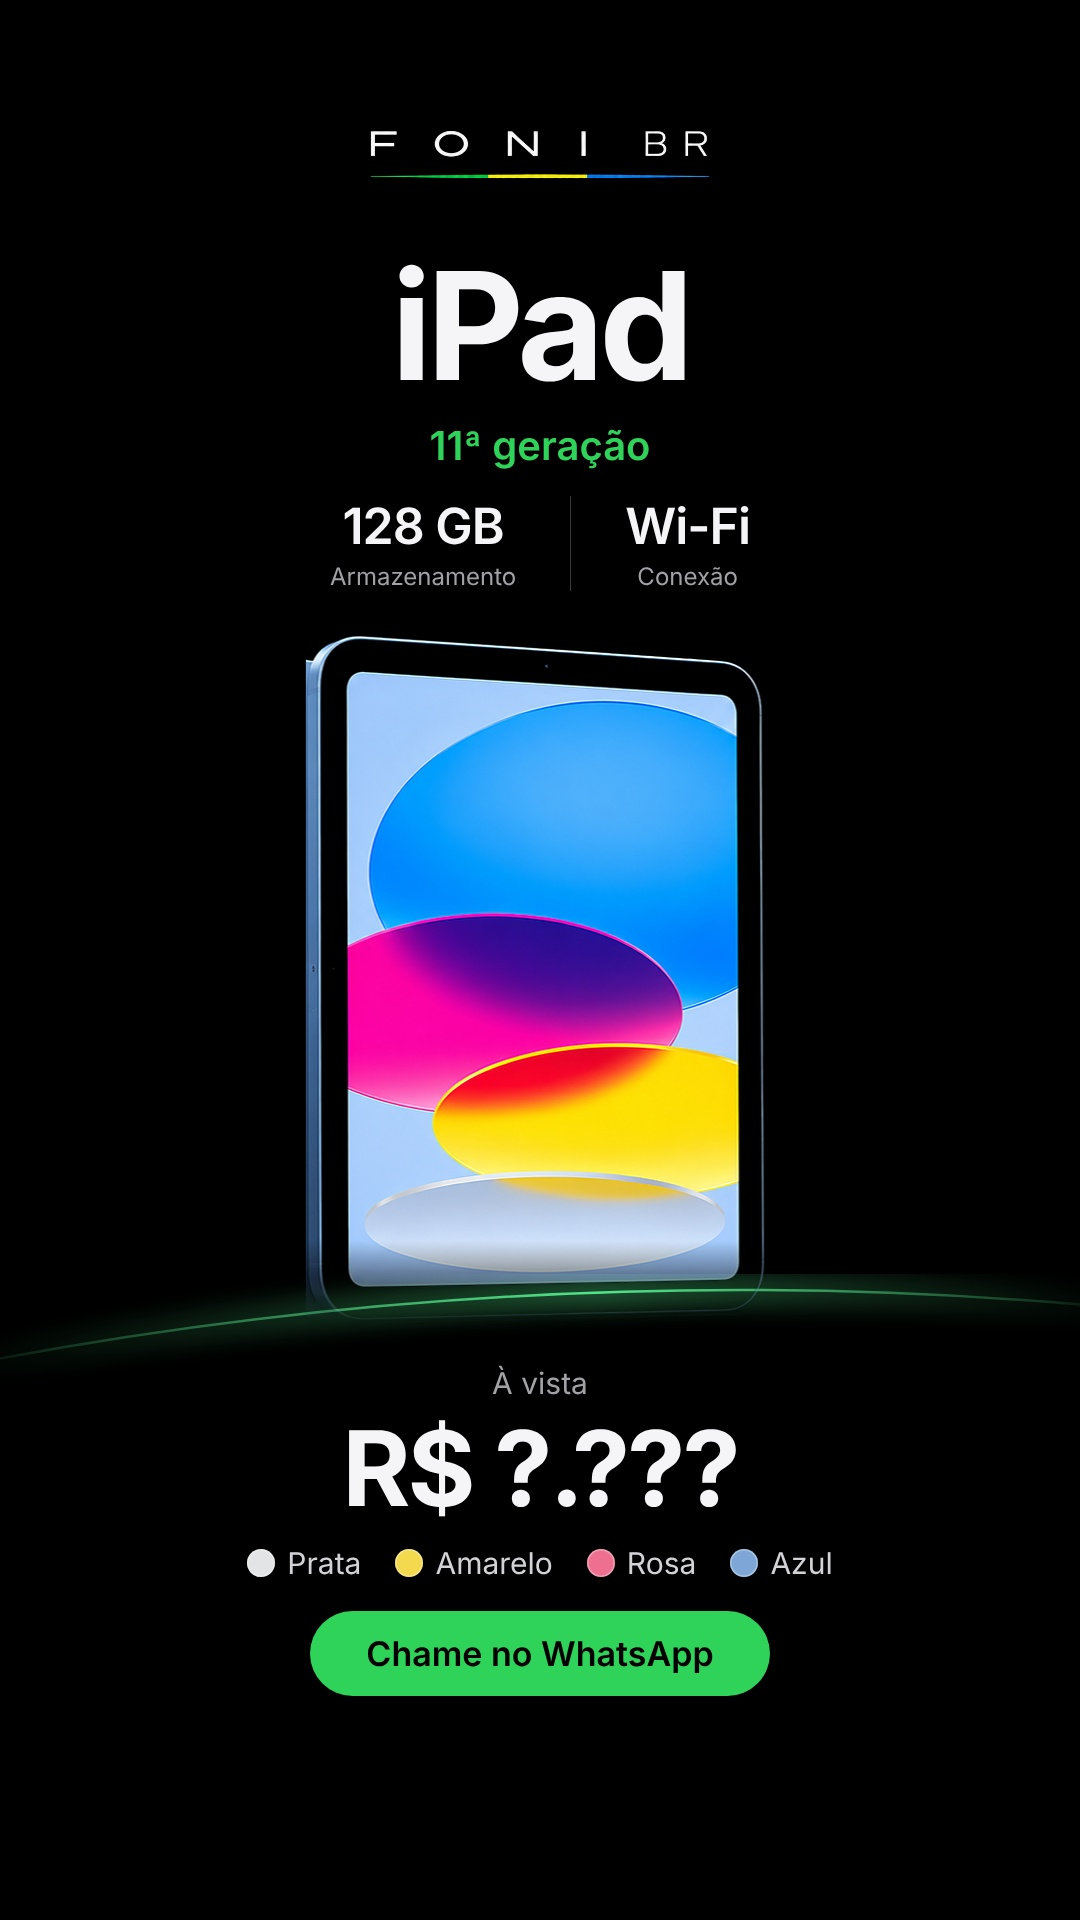
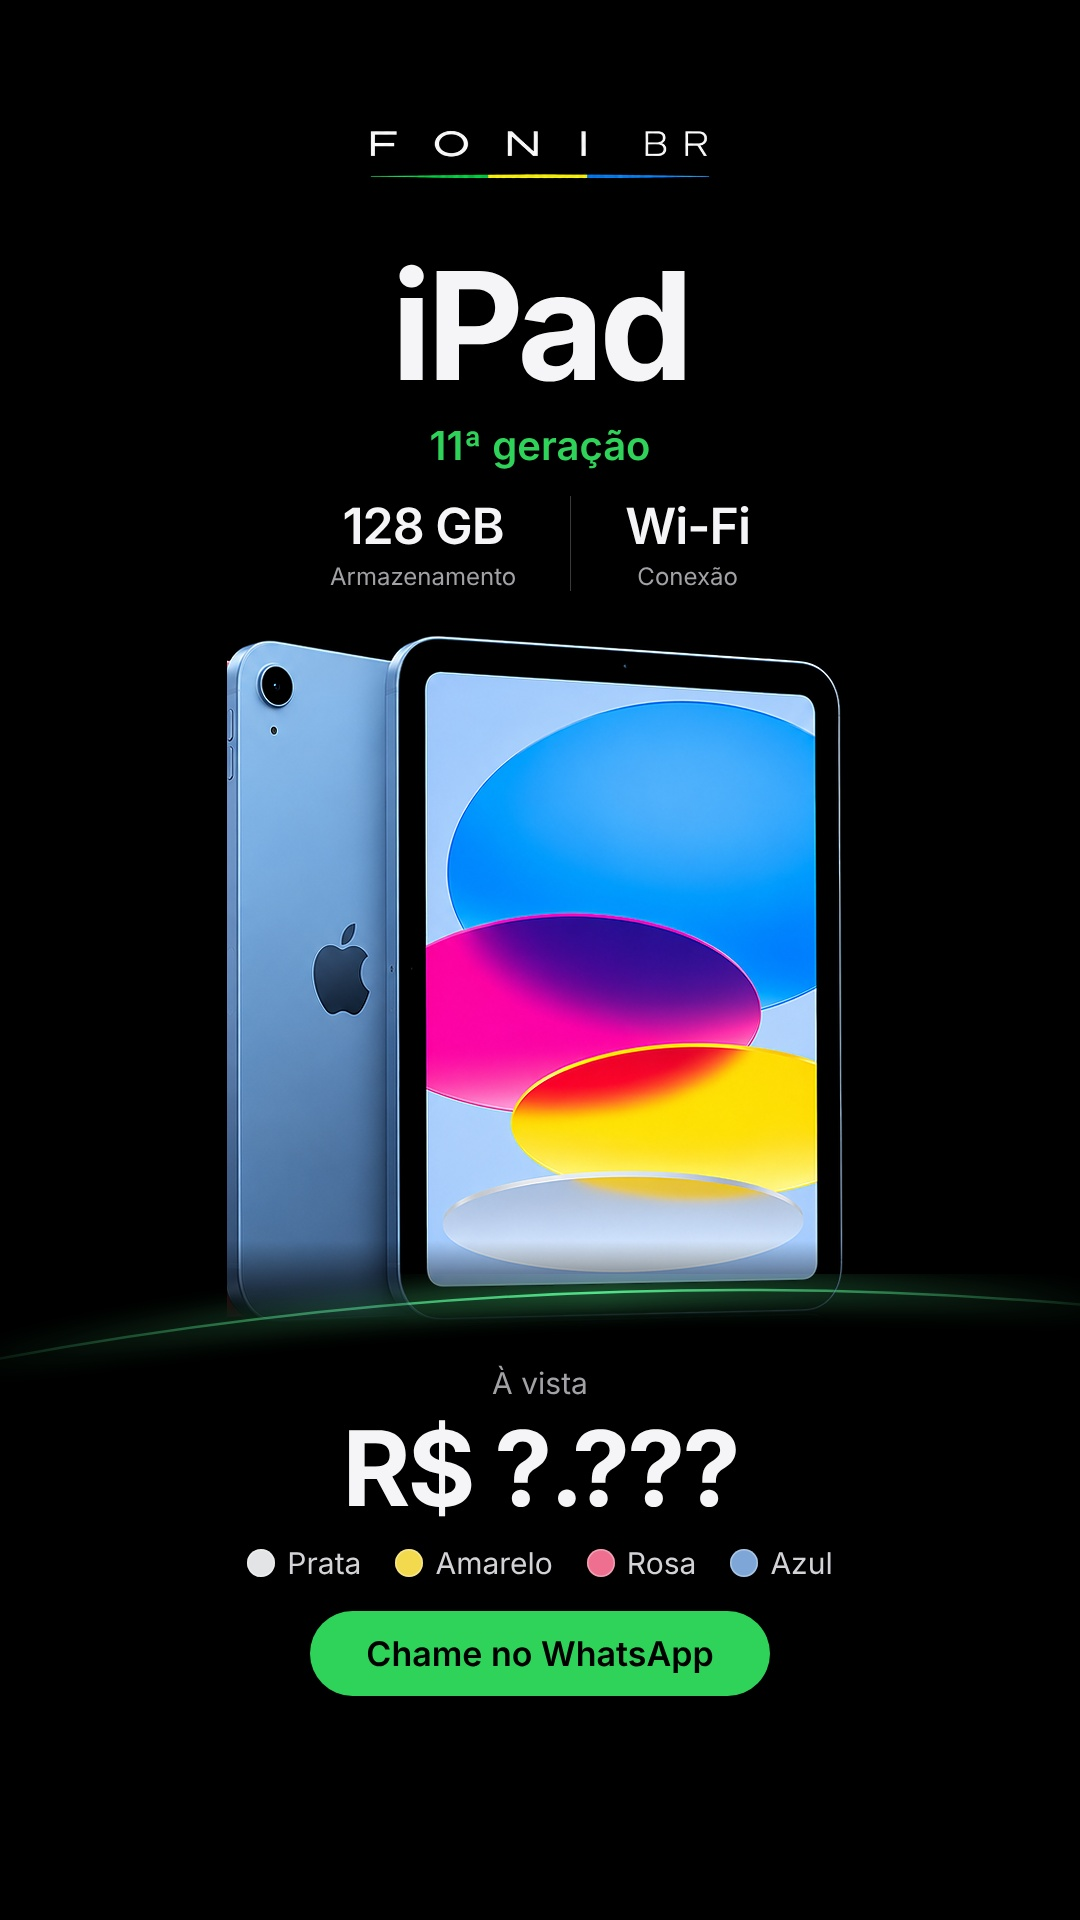
iPads: anúncio com traseira + frente, como nos iPhones
Claude-Session: https://claude.ai/code/session_019vjRdqEKRKmJkiD9USJGwJ

Changed region(s): [[0.1833, 0.3125, 0.7639, 0.6875]]

diff --git a/ferramentas/anuncio_produto/fichas.py b/ferramentas/anuncio_produto/fichas.py
@@ -52,10 +52,10 @@ FICHAS = {
                              foto="macbook-air-m5-15/macbookair_m5_15_prata.png"),
     "ipadpro_m5_11": dict(modelo="iPad Pro M5", cond="11 polegadas", specs="M5:Chip|256 GB:Armazenamento|Wi-Fi:Conexão",
                           preco=PENDENTE, cores="Preto-espacial:#2b2b2e ou Prata", garantia="", tamanho="pro", limiar=52,
-                          foto="ipad-pro-m5-11/ipadpro_m5_11_frente.png"),
+                          foto="ipad-pro-m5-11/ipadpro_m5_11_prata_frente.png"),
     "ipad11": dict(modelo="iPad", cond="11ª geração", specs="128 GB:Armazenamento|Wi-Fi:Conexão",
                    preco=PENDENTE, cores="Prata, Amarelo:#f3d94e, Rosa:#ee6f8f ou Azul:#7ea7d8", garantia="", tamanho="pro",
-                   limiar=52, foto="ipad-11/ipad11_frente_azul.png"),
+                   limiar=52, foto="ipad-11/ipad11_azul_frente.png"),
     "watchultra4": dict(modelo="Apple Watch Ultra 4", cond="GPS + Cellular", specs="49 mm:Caixa|Titânio:Material",
                         preco=PENDENTE, cores="Natural:#c9c2b6 ou Preto", garantia="", tamanho="pro", esfumar=True,
                         foto="apple-watch-ultra-4/watchultra4_natural.png"),

diff --git a/produtos/ipad-pro-m5-11/LEIA.md b/produtos/ipad-pro-m5-11/LEIA.md
@@ -1,2 +1,2 @@
 iPad Pro M5, 11 polegadas, 256 GB, Wi-Fi. Cores oficiais: Preto-espacial e Prata.
-Anuncio: frente do iPad (sem a Apple Pencil, vendida a parte), --tamanho pro --limiar 52; cores como opcoes embaixo.
+Anuncio: traseira prata + frente (sem a Apple Pencil, vendida a parte), arquivo ipadpro_m5_11_prata_frente.png, --tamanho pro --limiar 52; cores como opcoes embaixo.

diff --git a/produtos/ipad-11/LEIA.md b/produtos/ipad-11/LEIA.md
@@ -1,2 +1,2 @@
 iPad 11a geracao (chip A16), 128 GB, Wi-Fi. Cores: Prata, Amarelo, Rosa e Azul.
-Anuncio: frente do iPad (moldura azul), --tamanho pro --limiar 52; cores como opcoes embaixo.
+Anuncio: traseira azul + frente, arquivo ipad11_azul_frente.png, --tamanho pro --limiar 52; cores como opcoes embaixo.
